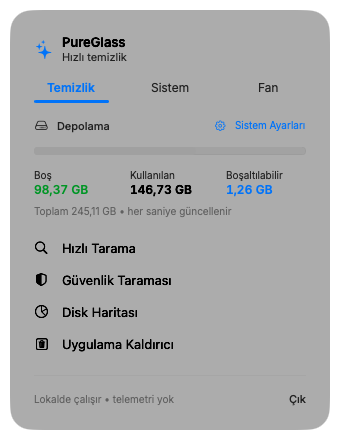
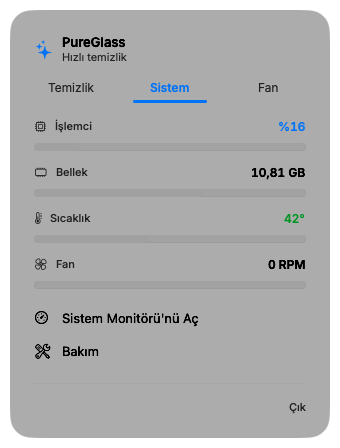
Akıcı animasyonlar: Canvas CPU grafiği, bar'lı Sistem sekmesi, smooth panel geçişi
- CPU geçmiş grafiği Swift Charts yerine Canvas: her veri değişiminde yeniden kurulup
  yanıp sönmüyor; yumuşatılmış (quad eğri) çizgi, akıcı kayar.
- Menü paneli Sistem sekmesi: Sıcaklık ve Fan da artık ilerleme çubuğu (İşlemci/Bellek
  ile tutarlı). Footer'dan 'Lokalde çalışır • telemetri yok' kaldırıldı.
- Sekme geçişi: içerik cross-fade (.opacity) + panel NSAnimationContext ile yumuşak
  yeniden boyutlanır (host panelle birlikte autoresize).

diff --git a/Sources/Features/MenuPanelView.swift b/Sources/Features/MenuPanelView.swift
@@ -134,6 +134,8 @@ struct MenuPanelView: View {
                 }
             }
             .frame(maxWidth: .infinity, alignment: .top)
+            .id(tab)
+            .transition(.opacity)
 
             Divider().opacity(0.3)
             footer
@@ -203,16 +205,17 @@ struct MenuPanelView: View {
     }
 
     private var systemTab: some View {
-        VStack(alignment: .leading, spacing: DS.Spacing.m) {
+        VStack(alignment: .leading, spacing: DS.Spacing.s) {
             meterRow("İşlemci", "cpu", "%\(Int((sys.cpu * 100).rounded()))",
-                     value: sys.cpu, tint: DS.Palette.accent)
+                     fraction: sys.cpu, tint: DS.Palette.accent, valueColor: DS.Palette.accent)
             meterRow("Bellek", "memorychip", sys.memUsed.formattedBytes,
-                     value: sys.memFraction, tint: sys.memFraction > 0.9 ? DS.Palette.danger : DS.Palette.safe)
-
-            HStack(spacing: DS.Spacing.m) {
-                metric("Sıcaklık", sys.temp.map { "\(Int($0.rounded()))°" } ?? "—", tempColor(sys.temp))
-                metric("Fan", sys.fan.map { "\(Int($0)) RPM" } ?? "—", .primary)
-            }
+                     fraction: sys.memFraction,
+                     tint: sys.memFraction > 0.9 ? DS.Palette.danger : DS.Palette.safe, valueColor: .primary)
+            meterRow("Sıcaklık", "thermometer.medium", sys.temp.map { "\(Int($0.rounded()))°" } ?? "—",
+                     fraction: (sys.temp ?? 0) / 100, tint: tempColor(sys.temp), valueColor: tempColor(sys.temp))
+            meterRow("Fan", "fanblades", sys.fan.map { "\(Int($0)) RPM" } ?? "—",
+                     fraction: sys.fanInfo.map { $0.max > 0 ? $0.current / $0.max : 0 } ?? 0,
+                     tint: DS.Palette.accent, valueColor: .primary)
 
             VStack(spacing: 2) {
                 row("Sistem Monitörü'nü Aç", "gauge.with.dots.needle.67percent") {
@@ -225,18 +228,19 @@ struct MenuPanelView: View {
         }
     }
 
-    /// Etiket + değer + ilerleme çubuğu (CPU/Bellek için).
-    private func meterRow(_ title: String, _ symbol: String, _ value: String, value fraction: Double, tint: Color) -> some View {
-        VStack(alignment: .leading, spacing: 4) {
+    /// Etiket + değer + ilerleme çubuğu (tüm sistem metrikleri için tutarlı).
+    private func meterRow(_ title: String, _ symbol: String, _ value: String,
+                          fraction: Double, tint: Color, valueColor: Color) -> some View {
+        VStack(alignment: .leading, spacing: 3) {
             HStack {
                 Label(title, systemImage: symbol).font(.iCaption.weight(.medium)).foregroundStyle(.secondary)
                 Spacer()
                 Text(value).font(.iCallout.weight(.semibold).monospacedDigit())
-                    .foregroundStyle(tint == DS.Palette.safe ? .primary : tint)
+                    .foregroundStyle(valueColor)
                     .contentTransition(.numericText())
             }
             ProgressView(value: min(max(fraction, 0), 1)).tint(tint)
-                .animation(.easeInOut(duration: 0.4), value: fraction)
+                .animation(.easeInOut(duration: 0.45), value: fraction)
         }
     }
 
@@ -353,8 +357,6 @@ struct MenuPanelView: View {
 
     private var footer: some View {
         HStack {
-            Text("Lokalde çalışır • telemetri yok")
-                .font(.iCaption2).foregroundStyle(.tertiary)
             Spacer()
             Button("Çık") { NSApp.terminate(nil) }
                 .buttonStyle(.plain)

diff --git a/Sources/Features/SystemMonitorView.swift b/Sources/Features/SystemMonitorView.swift
@@ -1,7 +1,6 @@
 import SwiftUI
 import Observation
 import AppKit
-import Charts
 import PureGlassKit
 
 /// CPU geçmiş grafiği için tek nokta.
@@ -137,24 +136,38 @@ struct SystemMonitorView: View {
         }
     }
 
+    // Canvas tabanlı smooth CPU geçmiş grafiği. Swift Charts'ın her veri değişiminde
+    // tüm görünümü yeniden kurup yanıp sönmesini önler; Canvas yalnızca yeniden çizer.
     private var cpuHistoryChart: some View {
-        Chart(model.cpuHistory) { p in
-            AreaMark(x: .value("t", p.id), y: .value("cpu", p.value))
-                .interpolationMethod(.catmullRom)
-                .foregroundStyle(.linearGradient(
-                    colors: [DS.Palette.accent.opacity(0.45), DS.Palette.accent.opacity(0.04)],
-                    startPoint: .top, endPoint: .bottom))
-            LineMark(x: .value("t", p.id), y: .value("cpu", p.value))
-                .interpolationMethod(.catmullRom)
-                .foregroundStyle(DS.Palette.accent)
-                .lineStyle(StrokeStyle(lineWidth: 2))
+        Canvas { ctx, size in
+            let pts = model.cpuHistory
+            guard pts.count > 1 else { return }
+            let n = pts.count
+            func cgPoint(_ i: Int) -> CGPoint {
+                let x = size.width * CGFloat(i) / CGFloat(n - 1)
+                let y = size.height * (1 - CGFloat(min(max(pts[i].value, 0), 1)))
+                return CGPoint(x: x, y: y)
+            }
+            // Catmull-Rom benzeri yumuşatma: ardışık noktalar arası quad eğriler.
+            var line = Path()
+            line.move(to: cgPoint(0))
+            for i in 0..<(n - 1) {
+                let p0 = cgPoint(i), p1 = cgPoint(i + 1)
+                let mid = CGPoint(x: (p0.x + p1.x) / 2, y: (p0.y + p1.y) / 2)
+                line.addQuadCurve(to: mid, control: p0)
+                line.addQuadCurve(to: p1, control: mid)
+            }
+            var fill = line
+            fill.addLine(to: CGPoint(x: size.width, y: size.height))
+            fill.addLine(to: CGPoint(x: 0, y: size.height))
+            fill.closeSubpath()
+            ctx.fill(fill, with: .linearGradient(
+                Gradient(colors: [DS.Palette.accent.opacity(0.40), DS.Palette.accent.opacity(0.02)]),
+                startPoint: CGPoint(x: 0, y: 0), endPoint: CGPoint(x: 0, y: size.height)))
+            ctx.stroke(line, with: .color(DS.Palette.accent),
+                       style: StrokeStyle(lineWidth: 2, lineCap: .round, lineJoin: .round))
         }
-        .chartXScale(domain: (model.cpuHistory.first?.id ?? 0)...(max((model.cpuHistory.first?.id ?? 0) + 1, model.cpuHistory.last?.id ?? 1)))
-        .chartYScale(domain: 0...1)
-        .chartXAxis(.hidden)
-        .chartYAxis(.hidden)
         .frame(height: 64)
-        .animation(.linear(duration: 0.5), value: model.cpuHistory)
     }
 
     private func cpuLegend(_ label: String, _ value: Double, _ color: Color) -> some View {

diff --git a/Sources/App/StatusBar.swift b/Sources/App/StatusBar.swift
@@ -58,7 +58,7 @@ final class StatusBarController: NSObject {
 
         host = NSHostingView(rootView: MenuPanelView(model: model))
         host.frame = CGRect(origin: .zero, size: host.fittingSize)
-        host.autoresizingMask = [.width, .minYMargin]   // panel boyu değişince üst kenara sabit kal
+        host.autoresizingMask = [.width, .height]       // panelle birlikte yumuşak büyür/küçülür
 
         panel = NSPanel(
             contentRect: host.frame,
@@ -123,21 +123,16 @@ final class StatusBarController: NSObject {
     /// Üst kenar sabit kalır (panel menü çubuğundan aşağı sarkar).
     private func resizePanel(to size: CGSize) {
         guard size.width > 1, size.height > 1 else { return }
-        guard panel.isVisible else {
-            host.frame = CGRect(origin: .zero, size: size)
-            panel.setContentSize(size)
-            return
-        }
+        guard panel.isVisible else { panel.setContentSize(size); return }
 
         let topY = panel.frame.maxY
         var f = panel.frame
         f.size = size
-        f.origin.y = topY - size.height          // üst kenarı sabitle
-        // host'u son boyutuna getir, panel içeriğinin üstüne yapıştır (minYMargin korur).
-        host.frame = CGRect(x: 0, y: panel.frame.height - size.height, width: size.width, height: size.height)
+        f.origin.y = topY - size.height          // üst kenarı sabitle (menü çubuğundan sarkar)
         NSAnimationContext.runAnimationGroup { ctx in
-            ctx.duration = 0.24
+            ctx.duration = 0.28
             ctx.timingFunction = CAMediaTimingFunction(name: .easeInEaseOut)
+            ctx.allowsImplicitAnimation = true
             panel.animator().setFrame(f, display: true)
         }
     }
